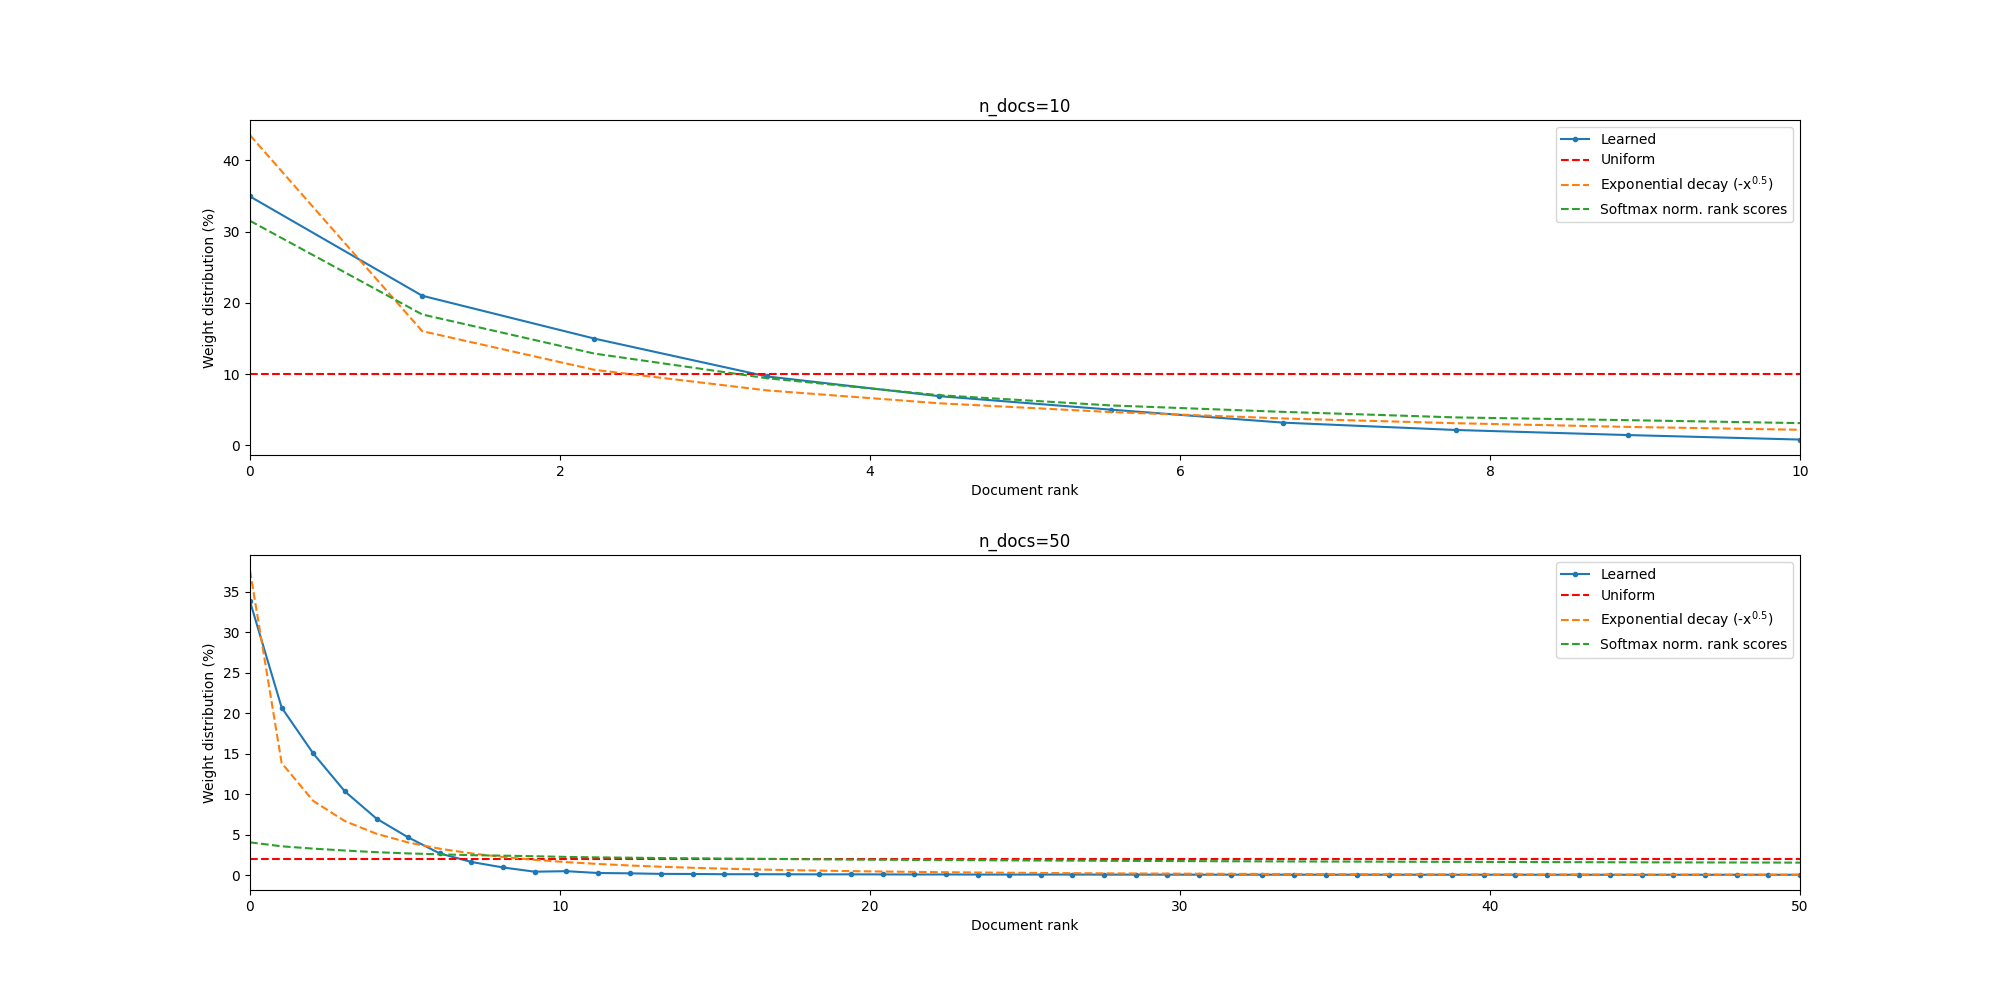
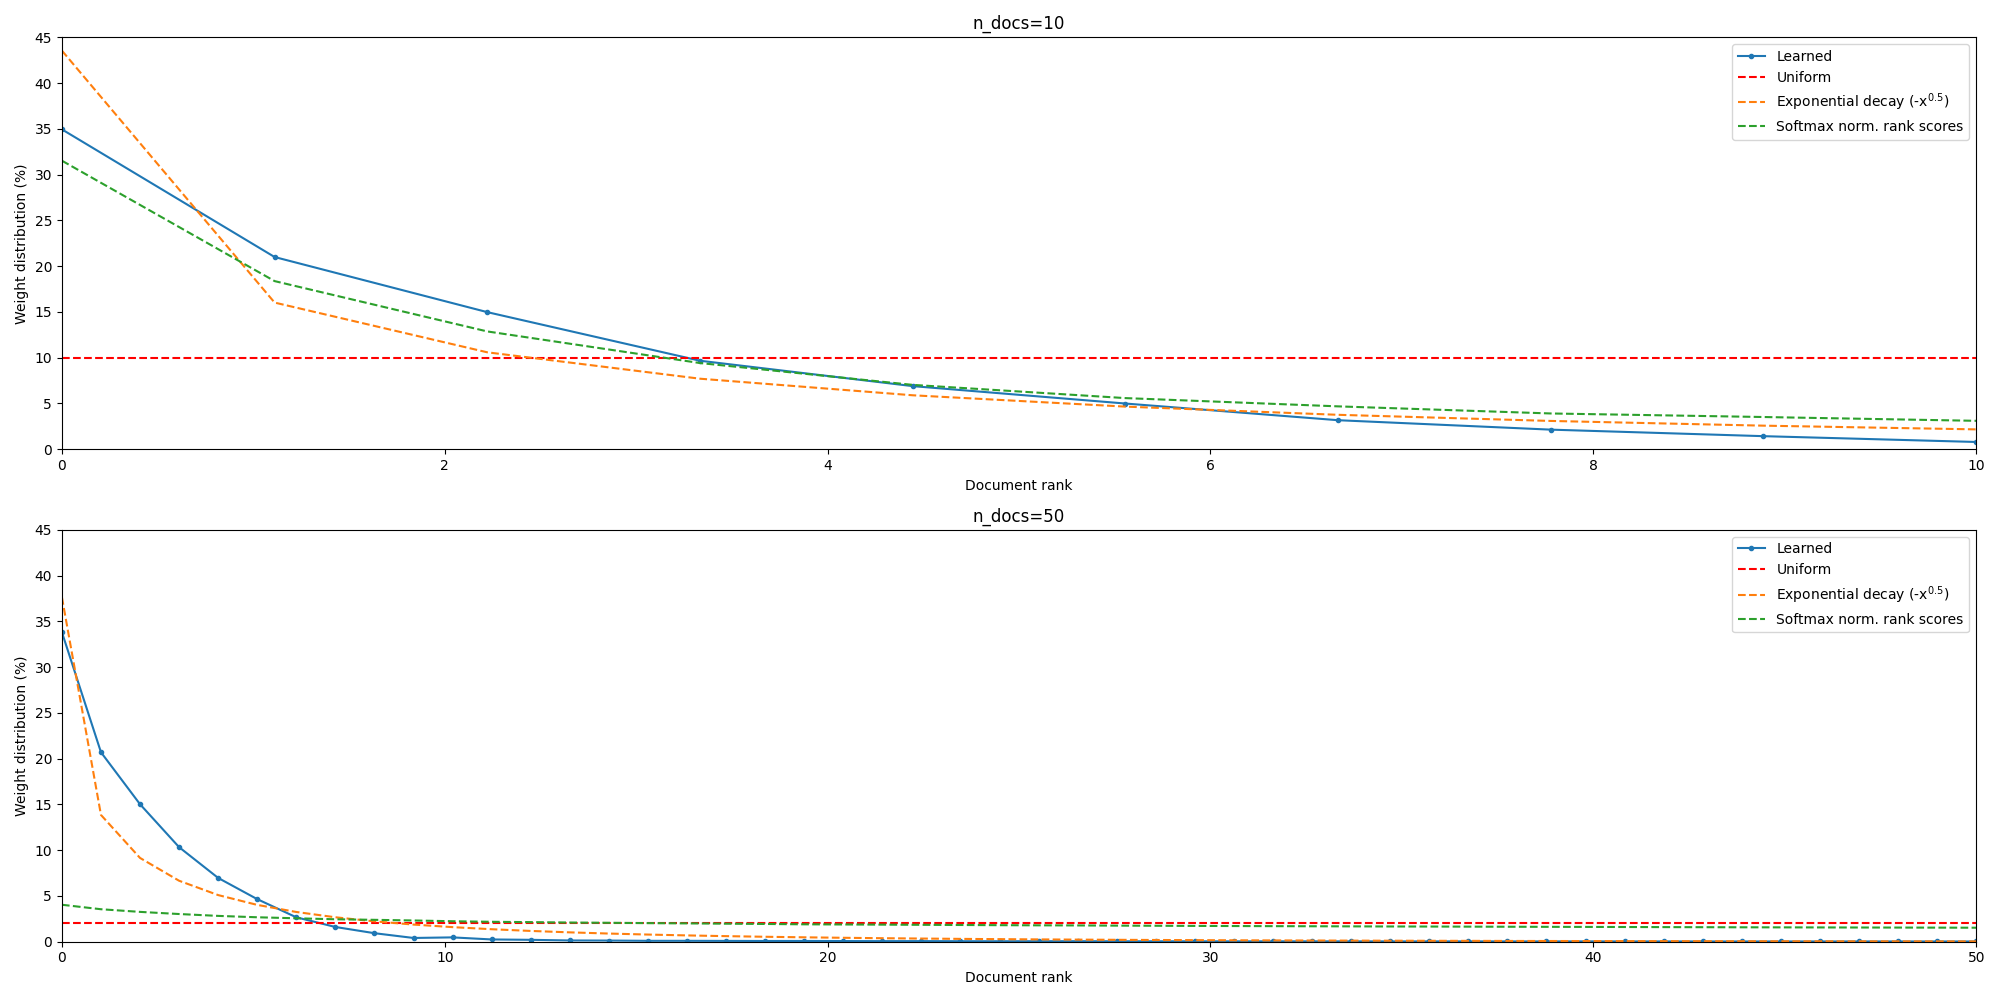
Update some plots

diff --git a/plot_data/correlation_lexical.py b/plot_data/correlation_lexical.py
@@ -71,11 +71,19 @@ def parse_args():
         default=10,
         help="Number of top-ranked documents to use. Only used for EncodingMethod.WEIGHTED_AVERAGE.",
     )
+    parser.add_argument(
+        "--docs_only",
+        action="store_true",
+        help="Only use the documents for encoding. Only used for EncodingMethod.WEIGHTED_AVERAGE.",
+    )
     return parser.parse_args()
 
 
 def load_or_generate_df():
     cache_file = Path(f"cache/performance_per_query_cache_{args.n_docs}_{args.samples}.pt")
+    if args.docs_only:
+        # Append "_docs_only" to the cache file name
+        cache_file = cache_file.with_name(f"{cache_file.stem}_docs_only{cache_file.suffix}")
 
     if cache_file.exists():
         df = torch.load(cache_file, map_location=args.device)
@@ -96,6 +104,7 @@ def load_or_generate_df():
             n_docs=args.n_docs,
             device=args.device,
             ckpt_path=args.ckpt_path,
+            docs_only=args.docs_only,
         )
         ff_avg = FFScore(index)
         sys_avg = sys_bm25_cut >> ff_avg
@@ -115,18 +124,24 @@ def load_or_generate_df():
 
 def plot_data(bm25_scores: List[float], avg_scores: List[float]):
     fig, ax = plt.subplots()
-    ax.set_xlabel("BM25 scores")
+    ax.set_xlabel("BM25 score")
     ax.set_ylabel("AvgEmb score")
 
-    ax.set_xlim(0, 1)
-    ax.set_ylim(0, 1)
+    # ax.set_xlim(0, 1)
+    # ax.set_ylim(0, 1)
 
     ax.scatter(bm25_scores, avg_scores, alpha=0.5)
 
+    # Add diagonal line y=x
+    min_score = min(min(bm25_scores), min(avg_scores))
+    max_score = max(max(bm25_scores), max(avg_scores))
+    ax.plot([min(bm25_scores), max(bm25_scores)], [min(avg_scores), max(avg_scores)], color='red', linestyle='--')
+
     ax.grid(True)
 
+    print(f"docs_only={args.docs_only}")
     fig.savefig(
-        "plot_data/figures/performance_per_query.png", transparent=True
+        f"plot_data/figures/correlation_lexical_docs_only={args.docs_only}.png", transparent=True
     )
     plt.show()
 
@@ -147,7 +162,7 @@ def main(args: argparse.Namespace) -> None:
     print("\033[96m")  # Prints during setup are colored cyan
     pt.init()
 
-    df = load_or_generate_df()
+    df = load_or_generate_df()#.head(args.n_docs)
     print("\033[0m")  # Reset color
     print(f"df:\n{df}")
 
@@ -155,10 +170,10 @@ def main(args: argparse.Namespace) -> None:
     avg_scores = df["score"]
 
     # Normalize the scores
-    bm25_scores = (bm25_scores - bm25_scores.min()) / (
-        bm25_scores.max() - bm25_scores.min()
-    )
-    avg_scores = (avg_scores - avg_scores.min()) / (avg_scores.max() - avg_scores.min())
+    # bm25_scores = (bm25_scores - bm25_scores.min()) / (
+    #     bm25_scores.max() - bm25_scores.min()
+    # )
+    # avg_scores = (avg_scores - avg_scores.min()) / (avg_scores.max() - avg_scores.min())
 
     plot_data(bm25_scores, avg_scores)
 

diff --git a/plot_data/performance_efficiency_per_n_docs.py b/plot_data/performance_efficiency_per_n_docs.py
@@ -36,7 +36,7 @@ def plot_runtimes(profiles: List[Dict[str, Any]]):
     ax1.set_xlabel('nDCG@10')
     ax1.set_ylabel('Re-ranking latency (ms)')
     for i in range(len(names)):
-        ax1.scatter(nDCG[i], latency[i], label=names[i], marker='*' if i < 2 else 's')
+        ax1.scatter(nDCG[i], latency[i], label=names[i], marker='*' if i < 2 else 's', s=100)
     ax1.legend(bbox_to_anchor=(0, 1), loc='upper left')
     ax1.set_title('Full re-ranking')
 
@@ -44,7 +44,7 @@ def plot_runtimes(profiles: List[Dict[str, Any]]):
     ax2.set_xlabel('nDCG@10')
     ax2.set_ylabel('Query-encoding latency (ms)')
     for i in range(len(names)):
-        ax2.scatter(nDCG[i], latency_enc[i], label=names[i], marker='*' if i < 2 else 's')
+        ax2.scatter(nDCG[i], latency_enc[i], label=names[i], marker='*' if i < 2 else 's', s=100)
     ax2.legend(bbox_to_anchor=(0, 1), loc='upper left')
     ax2.set_title('Query-encoding')
 
@@ -67,13 +67,13 @@ def main(args: argparse.Namespace) -> None:
             "name": "TCT-ColBERT",
             "latency": 2609,
             "latency_enc": 1021,
-            "nDCG@10": 0.684,
+            "nDCG@10": 0.694,
         },
         {
             "name": "AvgTokEmb",
             "latency": 1634,
             "latency_enc": 7.09,
-            "nDCG@10": 0.673,
+            "nDCG@10": 0.677,
         },
         {
             "name": "n_docs=0 (=q_only)",
@@ -91,7 +91,7 @@ def main(args: argparse.Namespace) -> None:
             "name": "n_docs=10",
             "latency": 1687,
             "latency_enc": 74.77,
-            "nDCG@10": 0.653,
+            "nDCG@10": 0.678,
         },
         {
             "name": "n_docs=50",

diff --git a/plot_data/weight_methods.py b/plot_data/weight_methods.py
@@ -32,6 +32,7 @@ def plot(data: Dict[str, Any], ax: Any):
     # Normalize weights
     weights_normalized = np.array(weights)
     weights_normalized = weights_normalized / np.sum(weights_normalized) * 100
+    ax.set_ylim(0, 45)
 
     # Ignore the first element and normalize
     weights = np.array(weights[1:])
@@ -88,6 +89,7 @@ def main(args: argparse.Namespace) -> None:
     plot(data_10, ax1)
     plot(data_50, ax2)
 
+    fig.tight_layout()
     fig.savefig("plot_data/figures/weight_methods.png", transparent=True)
     plt.show()
 
